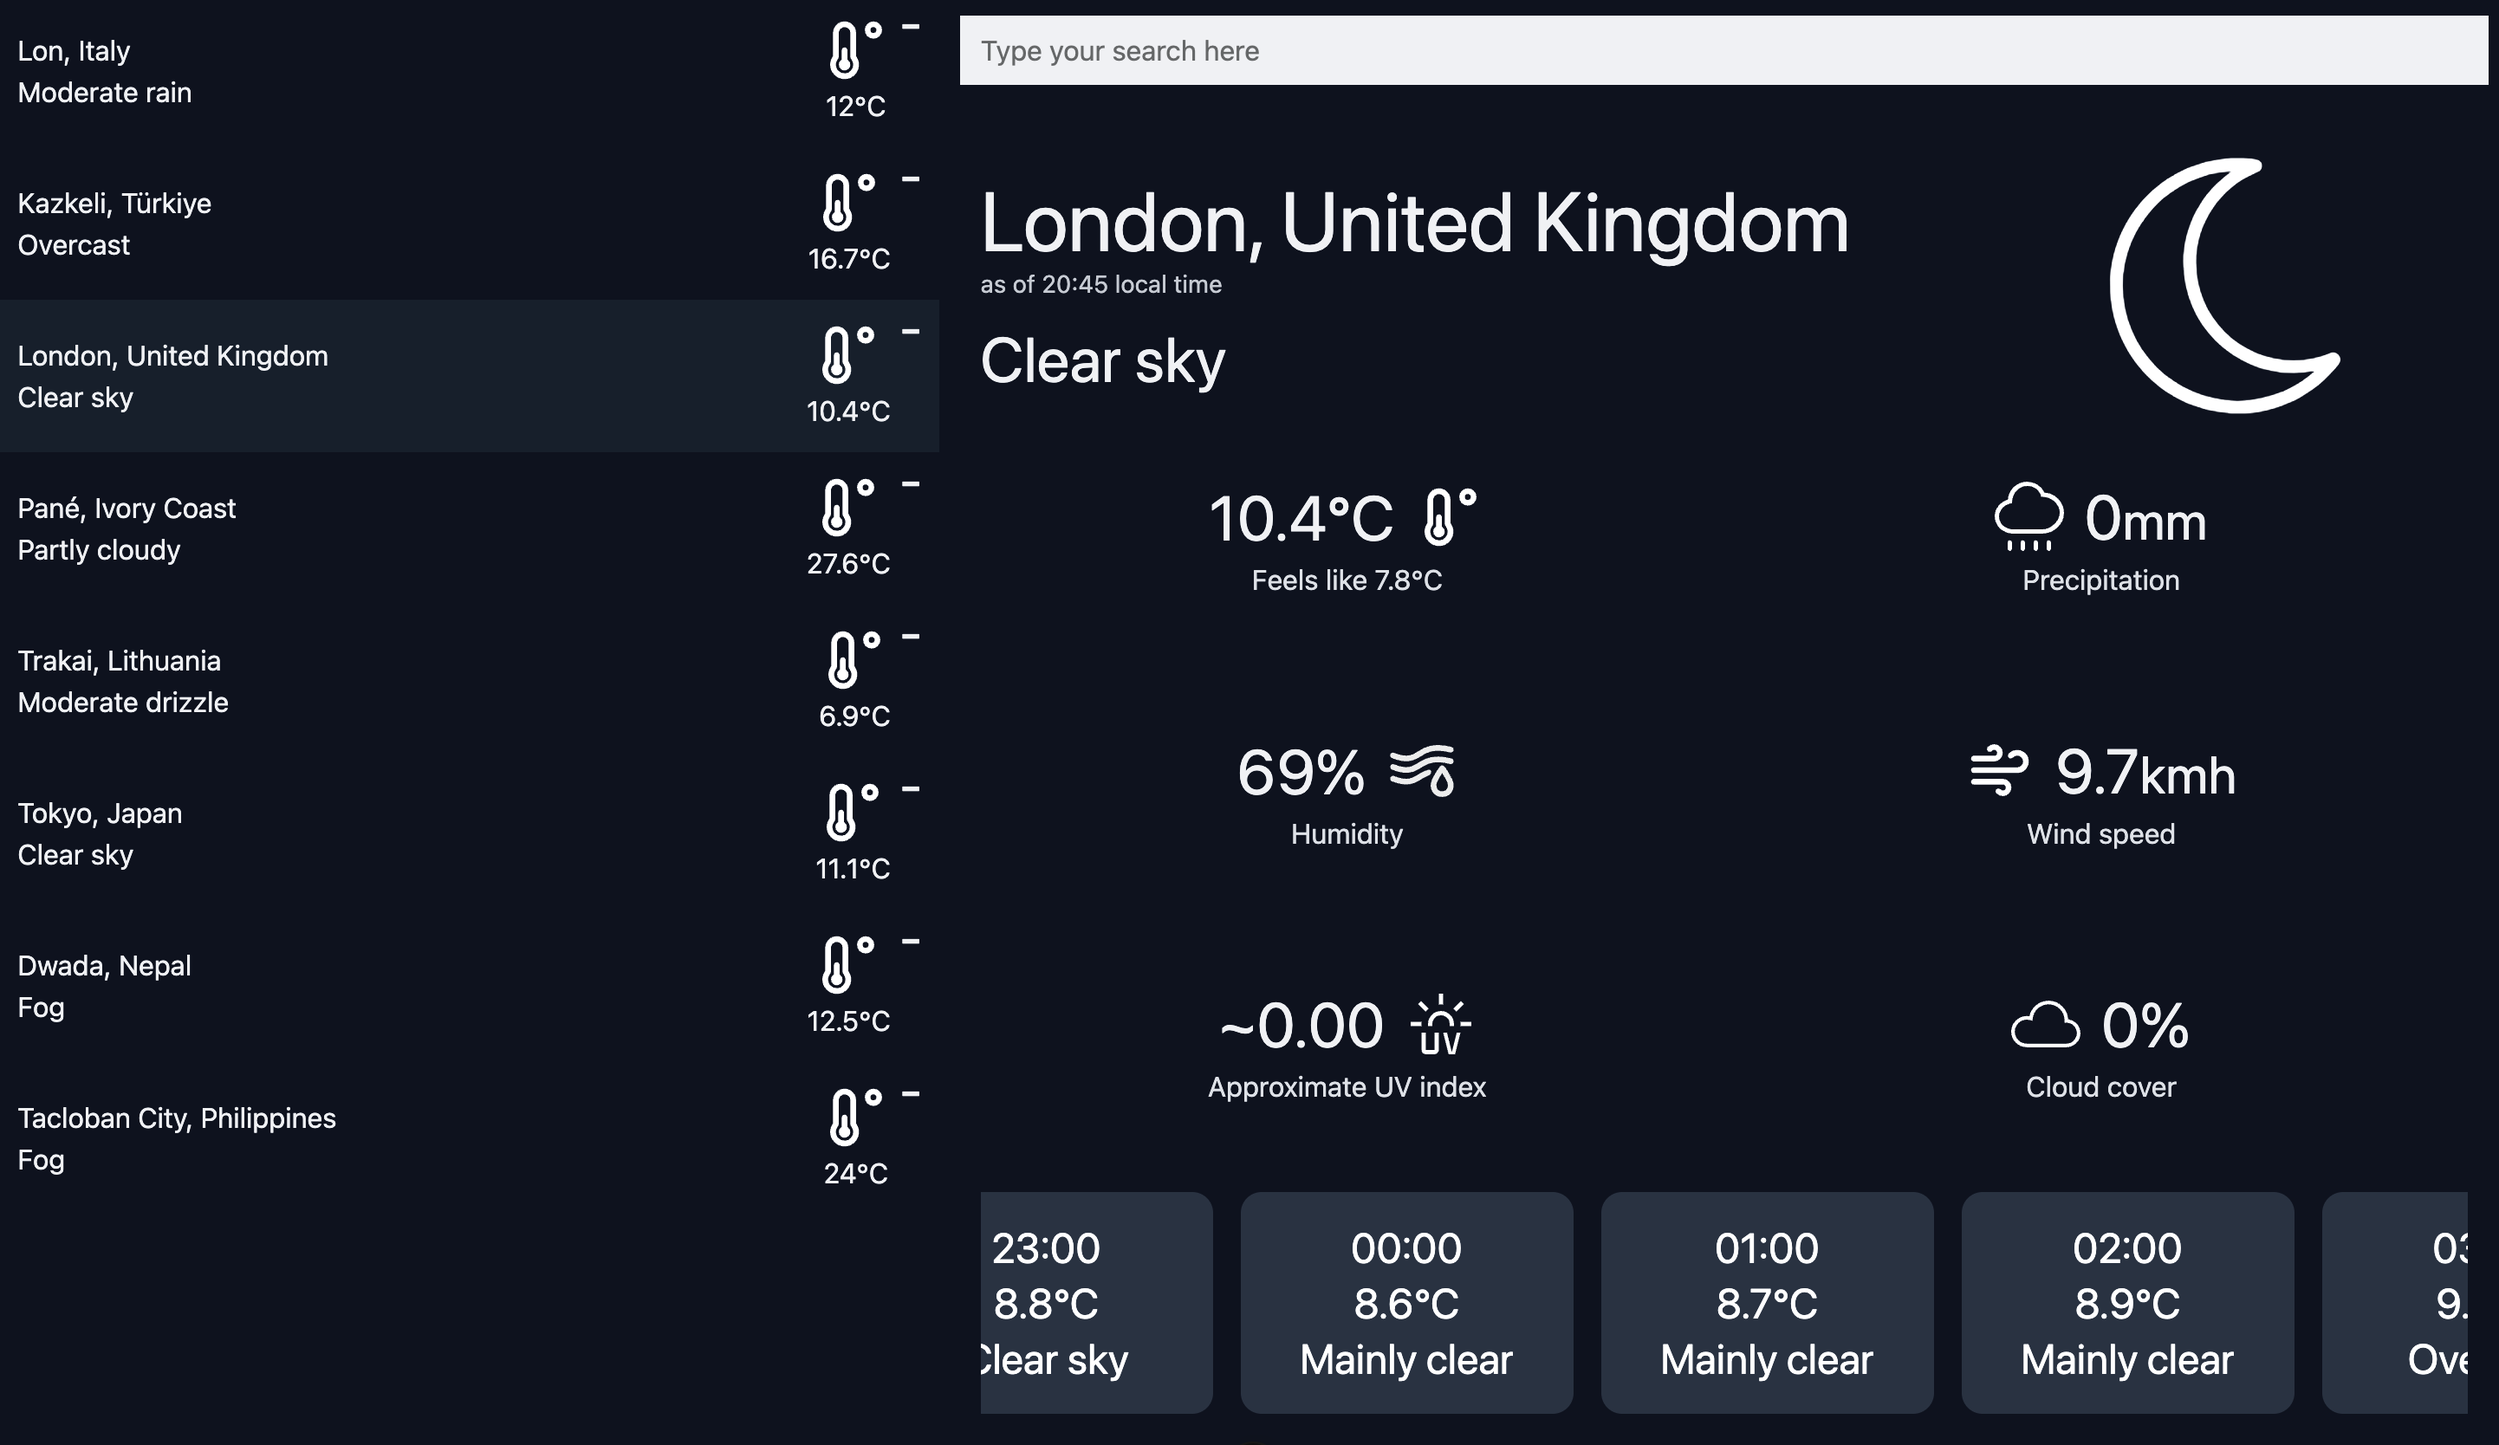
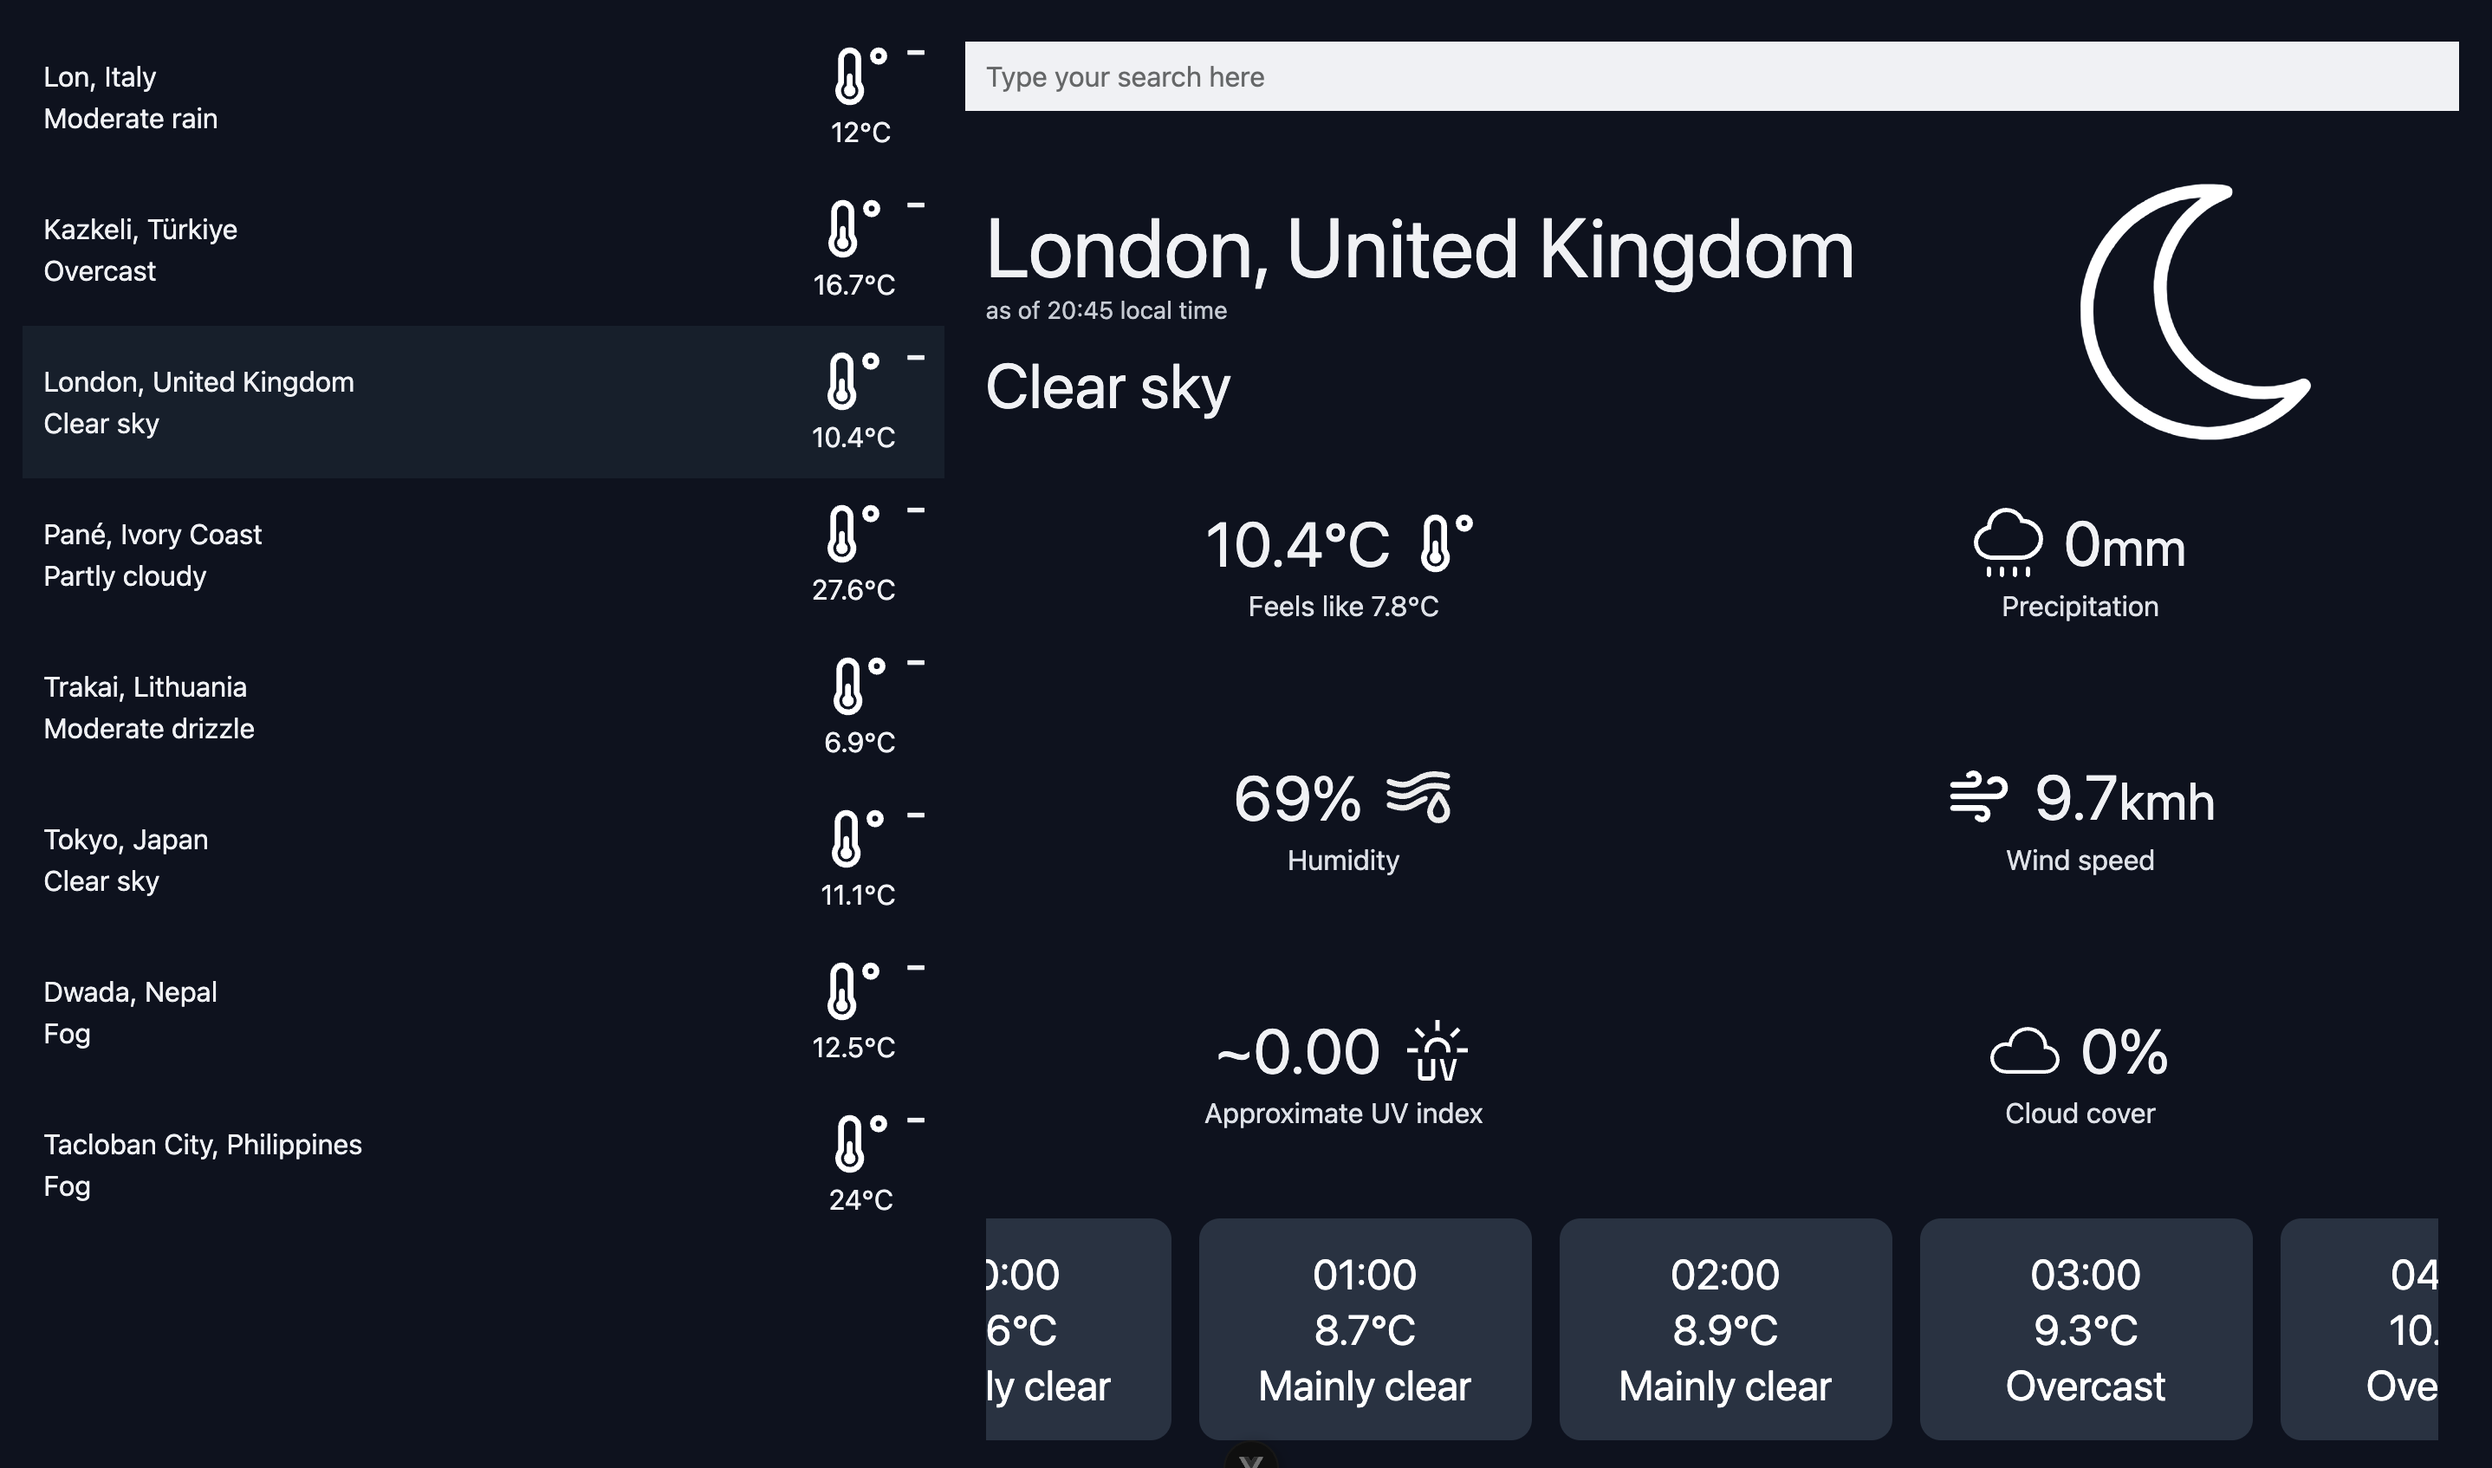
updated screenshot

diff --git a/src/App.vue b/src/App.vue
@@ -226,7 +226,7 @@ const add_clicked = () => {
 </script>
 
 <template>
-  <div class="flex min-h-screen w-screen flex-row bg-gray-900 text-gray-100">
+  <div class="flex min-h-screen w-screen flex-row bg-gray-900 p-4 text-gray-100">
     <!-- The nav section of the page -->
     <nav class="w-3/8">
       <ul v-if="saved" class="h-screen overflow-x-scroll">
